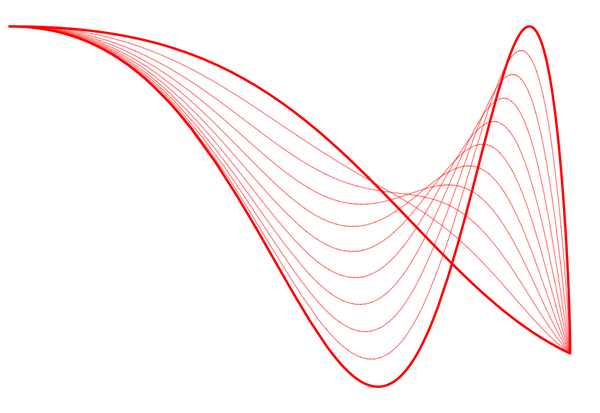
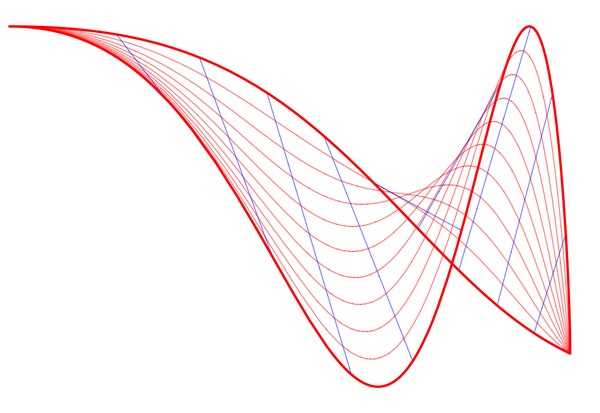
Added t-directions to homotopy

diff --git a/images/path-homotopy.m b/images/path-homotopy.m
@@ -14,13 +14,15 @@ gamma2[t_] := {2*Tan[Sin[Pi*t/2] - 1] - Tan[Sin[Pi*0] - 1] + Tan[0 - 1],
                Cos[3*Sin[t] + 2*Pi*t] - Cos[6*Pi*Sin[0]] + Cos[3*Sin[0]]};
 
 (* The straight-line homotopy *)
-F[s_, t_] := (1 - s)*gamma1[t] + s*gamma2[t];
+F[s_, t_] := (1 - t)*gamma1[s] + t*gamma2[s];
 
 homotopy = Show[
-	ParametricPlot[{gamma1[t], gamma2[t]}, {t, 0, 1}, 
-		PlotStyle -> {{Red, Thickness[0.004], CapForm["Round"]}}],
-	ParametricPlot[Table[F[s, t], {s, 0.1, 0.9, 0.1}], {t, 0, 1}, 
+	ParametricPlot[Table[F[s, t], {t, 0.1, 0.9, 0.1}], {s, 0, 1}, 
 		PlotStyle -> {{Red, Opacity[0.5]}}],
+	ParametricPlot[Table[F[s, t], {s, 0.1, 0.9, 0.1}], {t, 0, 1}, 
+		PlotStyle -> {{Blue, Opacity[0.5]}}],
+	ParametricPlot[{gamma1[s], gamma2[s]}, {s, 0, 1}, 
+		PlotStyle -> {{Red, Thickness[0.004], CapForm["Round"]}}],
 	Axes -> None, PlotRange -> {{-3.1, 0.1}, {-1.1, 1.1}}, ImageSize -> imagesize
 ];
 
